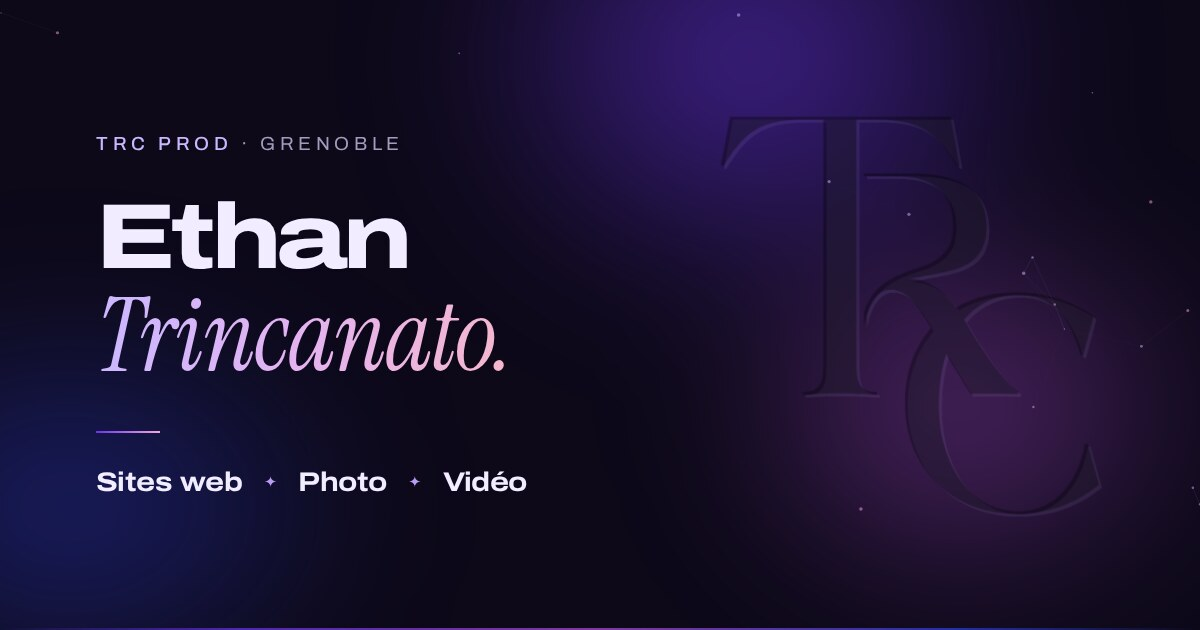
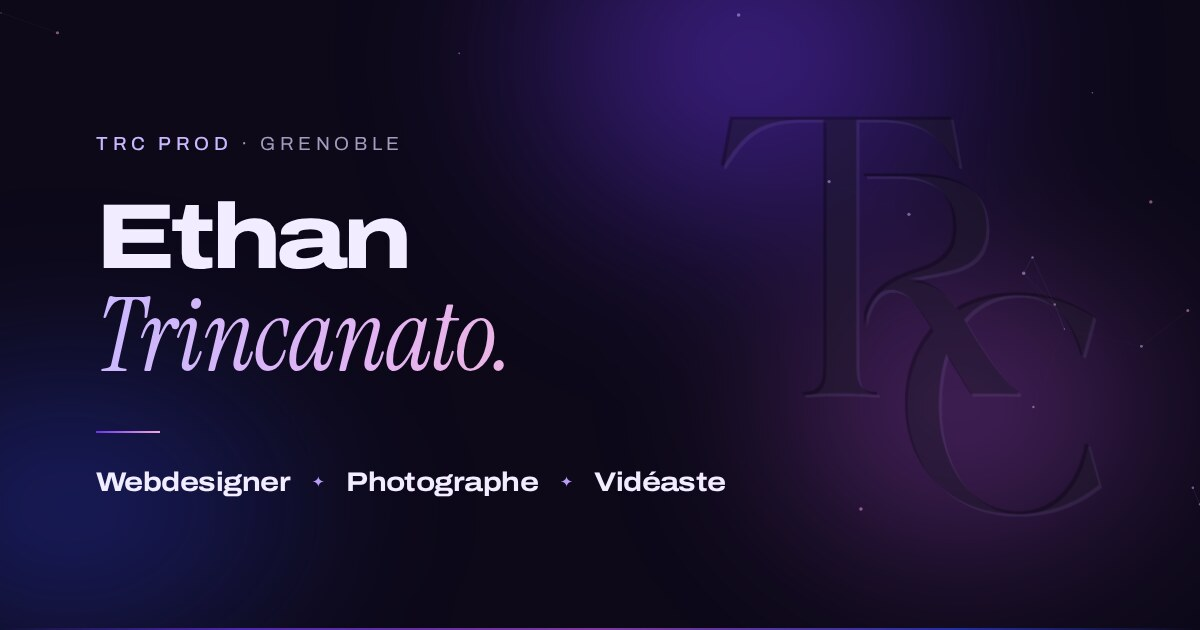
Image de partage : Webdesigner ✦ Photographe ✦ Vidéaste

Changed region(s): [[0.0617, 0.754, 0.4625, 0.7841], [0.4933, 0.754, 0.6167, 0.7841]]

diff --git a/index.html b/index.html
@@ -15,7 +15,7 @@
   <meta property="og:title" content="TRC Prod — Ethan Trincanato | Photographe, Vidéaste & Webdesign à Grenoble">
   <meta property="og:description" content="Photo, vidéo et sites web pour marques, commerces et particuliers : publicité, packshot, mariage, événementiel.">
   <meta property="og:url" content="https://trc-prod.vercel.app/">
-  <meta property="og:image" content="https://trc-prod.vercel.app/assets/img/og-cover.jpg?v=7">
+  <meta property="og:image" content="https://trc-prod.vercel.app/assets/img/og-cover.jpg?v=8">
   <meta property="og:image:width" content="1200">
   <meta property="og:image:height" content="630">
   <meta property="og:image:type" content="image/jpeg">
@@ -30,7 +30,7 @@
     "alternateName": "TRC Prod — Ethan Trincanato",
     "description": "Studio audiovisuel d'Ethan Trincanato à Grenoble : photo et vidéo pour marques, commerces et particuliers (publicité, packshot, mariage, événementiel).",
     "url": "https://trc-prod.vercel.app/",
-    "image": "https://trc-prod.vercel.app/assets/img/og-cover.jpg?v=7",
+    "image": "https://trc-prod.vercel.app/assets/img/og-cover.jpg?v=8",
     "email": "trcprod38@gmail.com",
     "founder": { "@type": "Person", "name": "Ethan Trincanato" },
     "address": { "@type": "PostalAddress", "addressLocality": "Grenoble", "addressCountry": "FR" },

diff --git a/brief.html b/brief.html
@@ -11,11 +11,11 @@
 <meta property="og:title" content="Parlons de votre futur site — TRC Prod">
 <meta property="og:description" content="Quelques questions pour cerner votre projet de site internet. 3 à 5 minutes, sans inscription.">
 <meta property="og:url" content="https://trc-prod.vercel.app/brief.html">
-<meta property="og:image" content="https://trc-prod.vercel.app/assets/img/og-cover.jpg?v=7">
+<meta property="og:image" content="https://trc-prod.vercel.app/assets/img/og-cover.jpg?v=8">
 <meta name="twitter:card" content="summary_large_image">
 <meta name="twitter:title" content="Parlons de votre futur site — TRC Prod">
 <meta name="twitter:description" content="Quelques questions pour cerner votre projet de site internet. 3 à 5 minutes.">
-<meta name="twitter:image" content="https://trc-prod.vercel.app/assets/img/og-cover.jpg?v=7">
+<meta name="twitter:image" content="https://trc-prod.vercel.app/assets/img/og-cover.jpg?v=8">
 <link rel="icon" href="favicon.svg">
 <link rel="alternate icon" href="assets/brand/logo-black.png">
 <link rel="preconnect" href="https://fonts.googleapis.com">

diff --git a/about.html b/about.html
@@ -13,7 +13,7 @@
   <meta property="og:title" content="À propos — TRC Prod | Ethan Trincanato">
   <meta property="og:description" content="Photographe et vidéaste basé à Grenoble. Photo et vidéo pour marques, commerces et particuliers.">
   <meta property="og:url" content="https://trc-prod.vercel.app/about.html">
-  <meta property="og:image" content="https://trc-prod.vercel.app/assets/img/og-cover.jpg?v=7">
+  <meta property="og:image" content="https://trc-prod.vercel.app/assets/img/og-cover.jpg?v=8">
   <meta property="og:image:width" content="1200">
   <meta property="og:image:height" content="630">
   <meta property="og:image:type" content="image/jpeg">

diff --git a/photo.html b/photo.html
@@ -13,7 +13,7 @@
   <meta property="og:title" content="Photographie — TRC Prod | Ethan Trincanato">
   <meta property="og:description" content="Portfolio photo : packshot, publicité, mariage, événementiel, automobile et immobilier.">
   <meta property="og:url" content="https://trc-prod.vercel.app/photo.html">
-  <meta property="og:image" content="https://trc-prod.vercel.app/assets/img/og-cover.jpg?v=7">
+  <meta property="og:image" content="https://trc-prod.vercel.app/assets/img/og-cover.jpg?v=8">
   <meta property="og:image:width" content="1200">
   <meta property="og:image:height" content="630">
   <meta property="og:image:type" content="image/jpeg">

diff --git a/web.html b/web.html
@@ -13,7 +13,7 @@
   <meta property="og:title" content="Sites web · TRC Prod | Ethan Trincanato">
   <meta property="og:description" content="Sites vitrines conçus de A à Z : design, textes, photos, mise en ligne et référencement.">
   <meta property="og:url" content="https://trc-prod.vercel.app/web.html">
-  <meta property="og:image" content="https://trc-prod.vercel.app/assets/img/og-cover.jpg?v=7">
+  <meta property="og:image" content="https://trc-prod.vercel.app/assets/img/og-cover.jpg?v=8">
   <meta property="og:image:width" content="1200">
   <meta property="og:image:height" content="630">
   <meta property="og:image:type" content="image/jpeg">

diff --git a/contact.html b/contact.html
@@ -13,7 +13,7 @@
   <meta property="og:title" content="Contact — TRC Prod | Ethan Trincanato">
   <meta property="og:description" content="Parlez-moi de votre projet photo ou vidéo. Je vous réponds rapidement.">
   <meta property="og:url" content="https://trc-prod.vercel.app/contact.html">
-  <meta property="og:image" content="https://trc-prod.vercel.app/assets/img/og-cover.jpg?v=7">
+  <meta property="og:image" content="https://trc-prod.vercel.app/assets/img/og-cover.jpg?v=8">
   <meta property="og:image:width" content="1200">
   <meta property="og:image:height" content="630">
   <meta property="og:image:type" content="image/jpeg">

diff --git a/video.html b/video.html
@@ -13,7 +13,7 @@
   <meta property="og:title" content="Vidéo — TRC Prod | Ethan Trincanato">
   <meta property="og:description" content="Films de marque, publicités, contenus réseaux sociaux et événements.">
   <meta property="og:url" content="https://trc-prod.vercel.app/video.html">
-  <meta property="og:image" content="https://trc-prod.vercel.app/assets/img/og-cover.jpg?v=7">
+  <meta property="og:image" content="https://trc-prod.vercel.app/assets/img/og-cover.jpg?v=8">
   <meta property="og:image:width" content="1200">
   <meta property="og:image:height" content="630">
   <meta property="og:image:type" content="image/jpeg">

diff --git a/services.html b/services.html
@@ -13,7 +13,7 @@
   <meta property="og:title" content="Services — TRC Prod | Ethan Trincanato">
   <meta property="og:description" content="Photographie, vidéo et direction artistique à Grenoble.">
   <meta property="og:url" content="https://trc-prod.vercel.app/services.html">
-  <meta property="og:image" content="https://trc-prod.vercel.app/assets/img/og-cover.jpg?v=7">
+  <meta property="og:image" content="https://trc-prod.vercel.app/assets/img/og-cover.jpg?v=8">
   <meta property="og:image:width" content="1200">
   <meta property="og:image:height" content="630">
   <meta property="og:image:type" content="image/jpeg">
